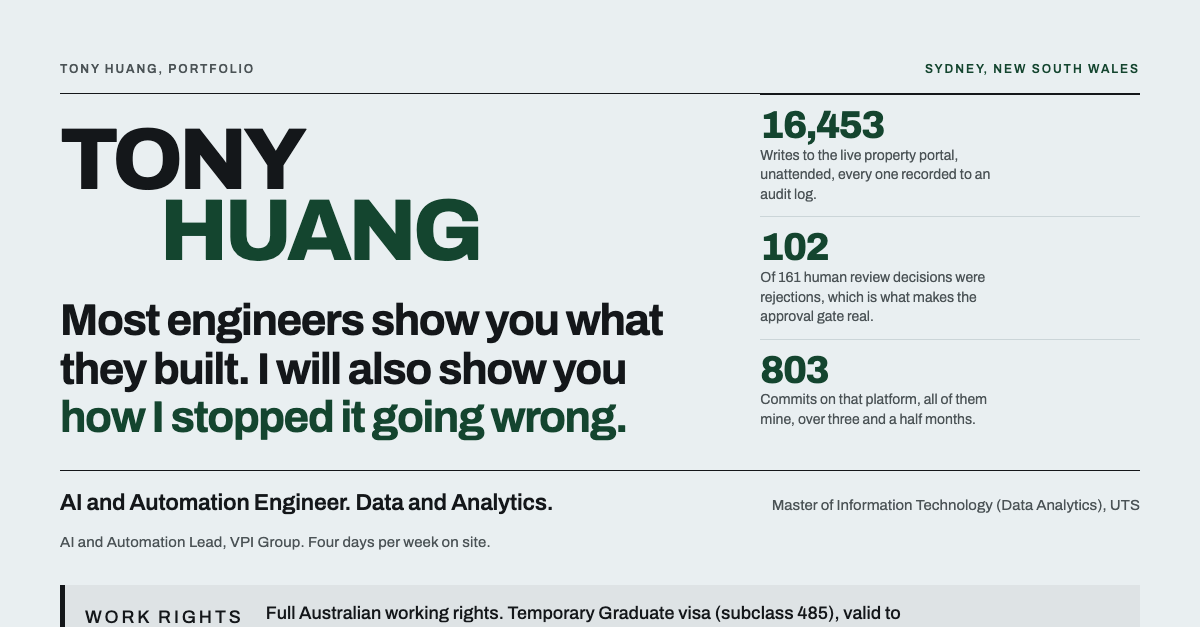
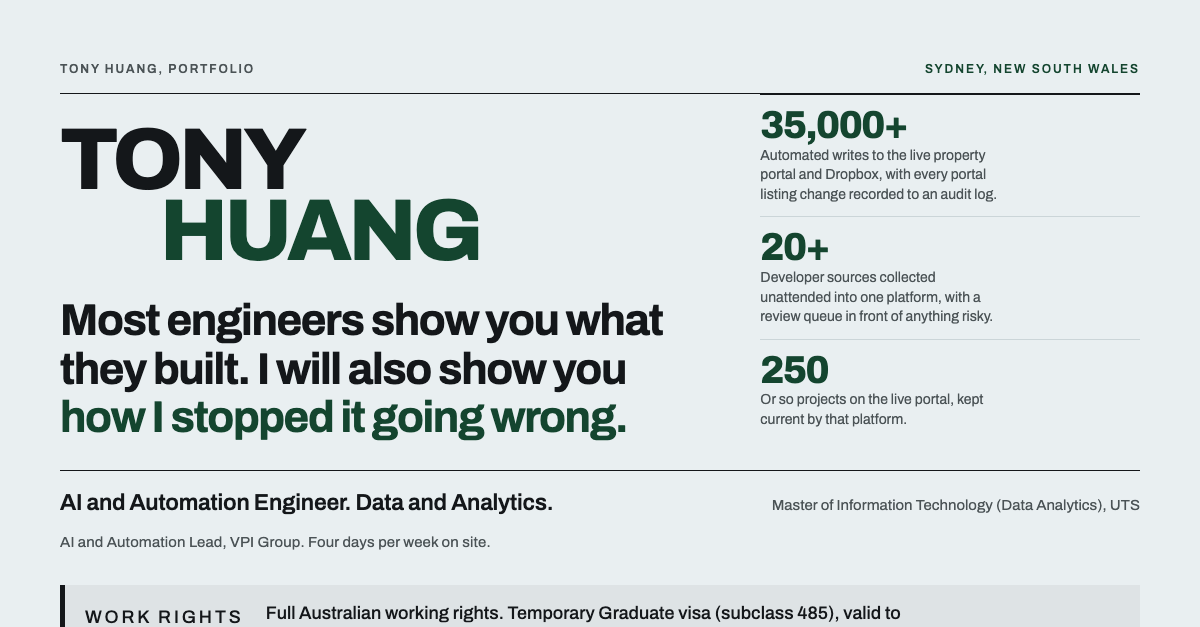
Masthead and preview image: drop retired figures, keep 35,000+, 20+ sources, about 250 projects

Changed region(s): [[0.6167, 0.1818, 0.8325, 0.3333], [0.6167, 0.3636, 0.8325, 0.5152], [0.6167, 0.5758, 0.8325, 0.697]]

diff --git a/index.html b/index.html
@@ -10,7 +10,7 @@
 <meta property="og:url" content="https://heatescape.github.io/">
 <meta property="og:title" content="Tony Huang, AI and Automation Engineer in Sydney">
 <meta property="og:description" content="I build the automation that keeps a property group's public data correct, and the controls that stop it going wrong.">
-<meta property="og:image" content="https://heatescape.github.io/og-image.png">
+<meta property="og:image" content="https://heatescape.github.io/og-image.png?v=20261122">
 <meta property="og:image:width" content="1200">
 <meta property="og:image:height" content="627">
 <meta name="twitter:card" content="summary_large_image">
@@ -537,12 +537,12 @@
         <dd>Automated writes to the live property portal and Dropbox, with every portal listing change recorded to an audit log.</dd>
       </div>
       <div>
-        <dt>102</dt>
-        <dd>Of 161 human review decisions were rejections, which is what makes the approval gate real.</dd>
+        <dt>20+</dt>
+        <dd>Developer sources collected unattended into one platform, with a review queue in front of anything risky.</dd>
       </div>
       <div>
-        <dt>803</dt>
-        <dd>Commits on that platform, all of them mine, over three and a half months.</dd>
+        <dt>250</dt>
+        <dd>Or so projects on the live portal, kept current by that platform.</dd>
       </div>
     </dl>
   </div>
